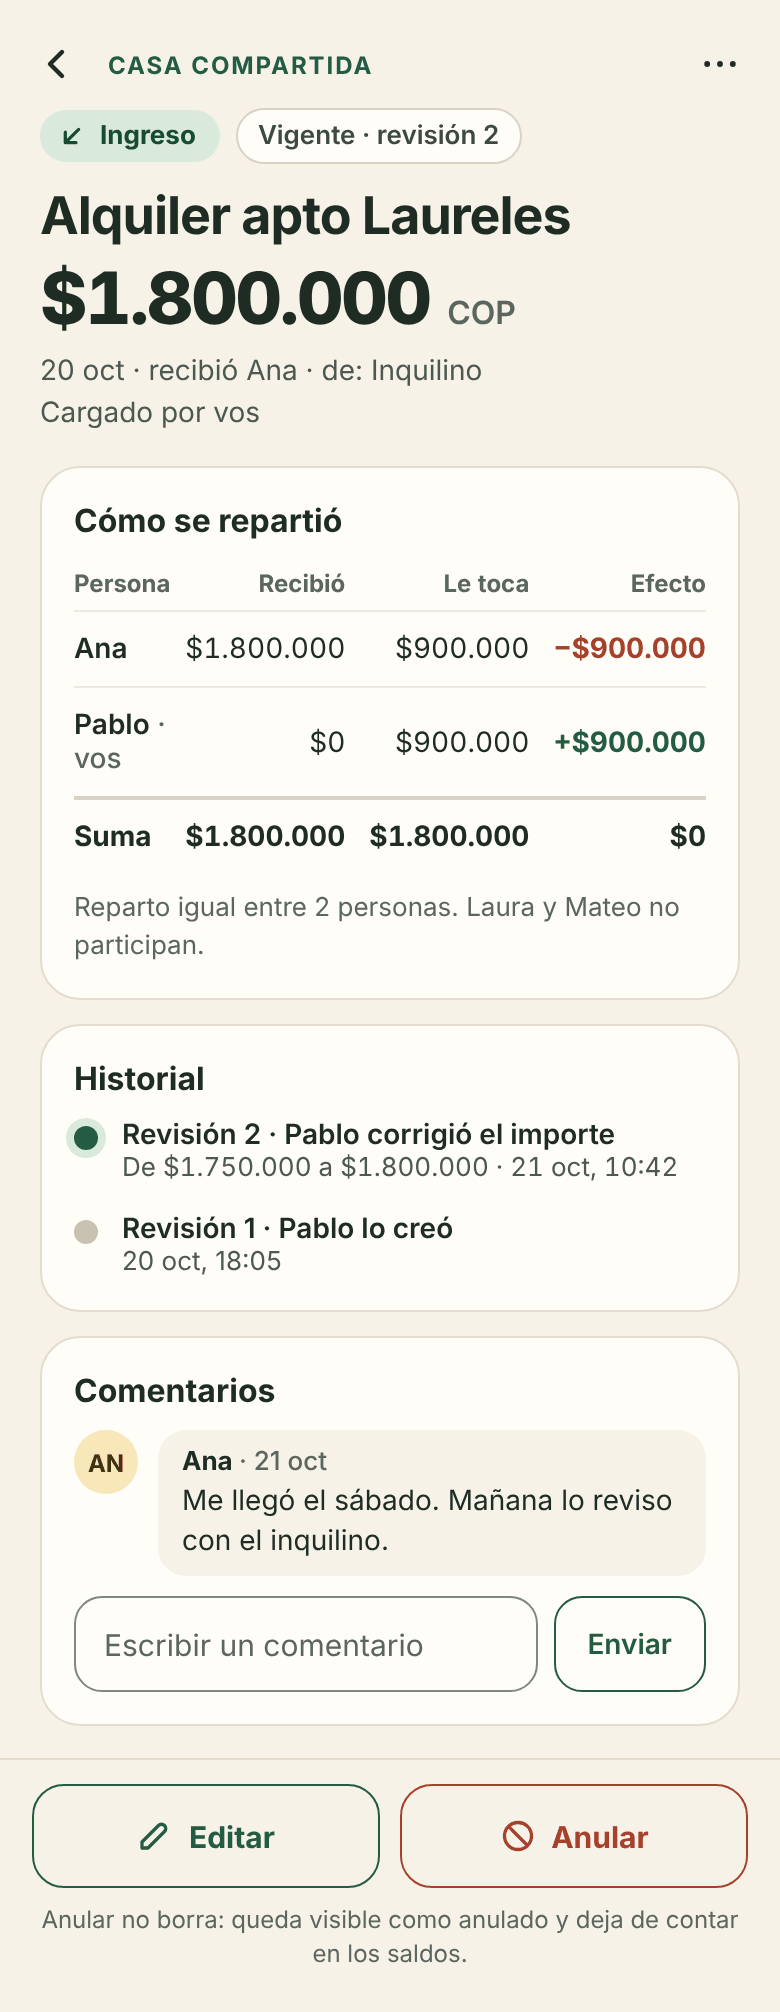
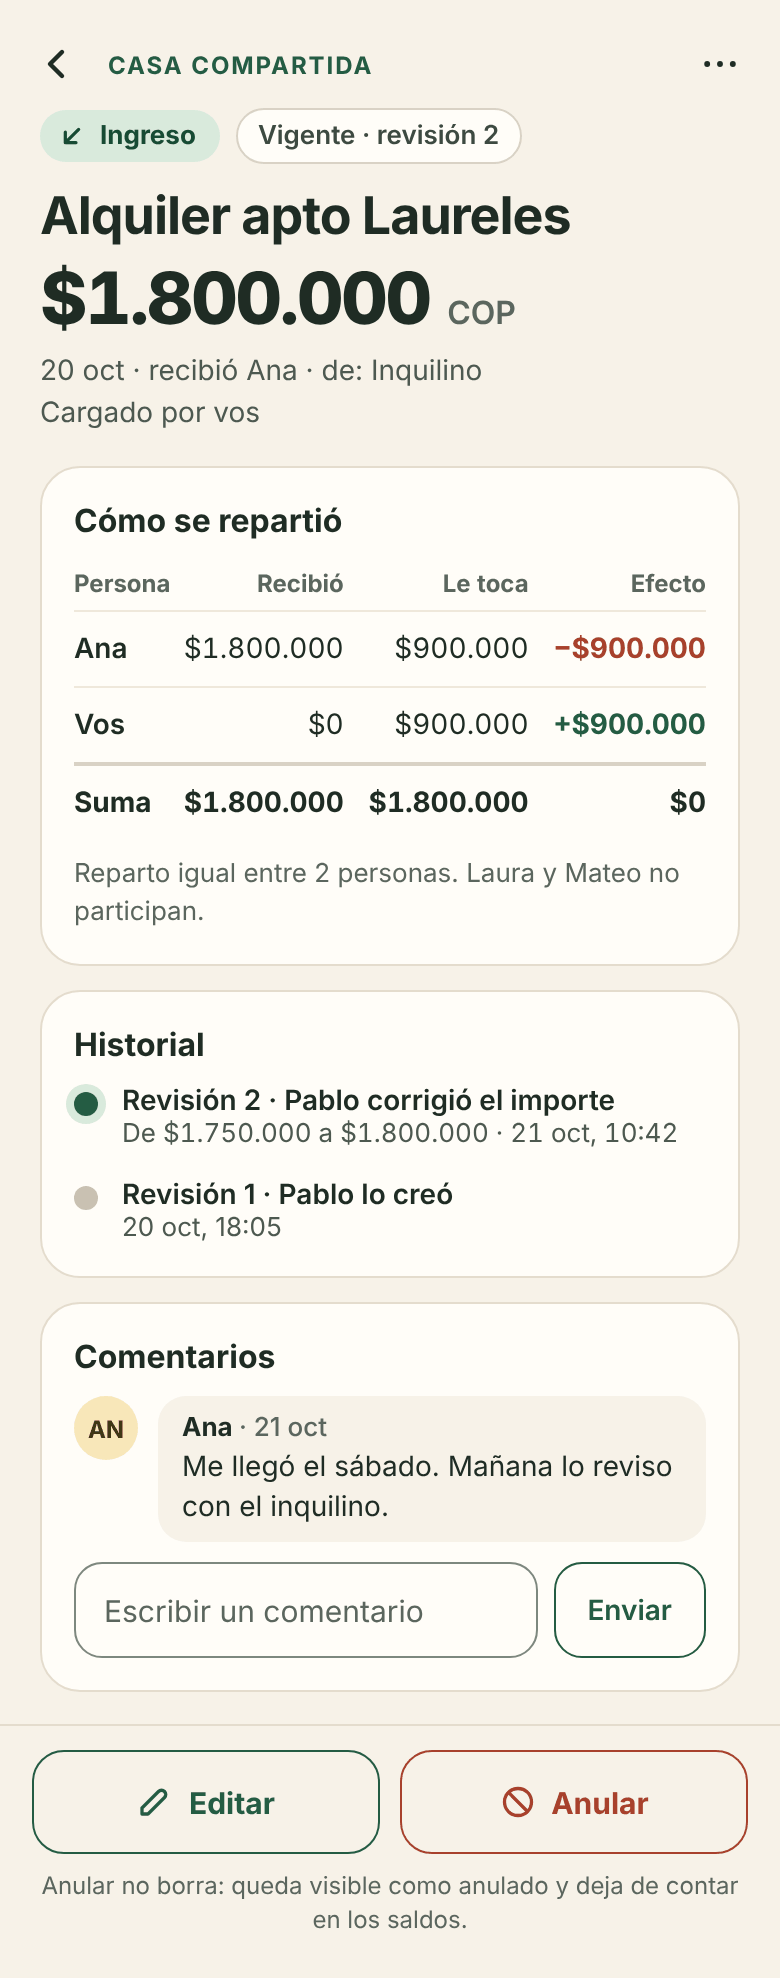
Acortar «Pablo · vos» a «Vos» en la tabla de reparto del detalle
Evita que la fila se parta en dos líneas a 390 px; capturas regeneradas.

Claude-Session: https://claude.ai/code/session_01UbZx6jd23ueNQqx8cAgRSF

diff --git a/docs/diseno/cuentas-claras/project/Detalle.dc.html b/docs/diseno/cuentas-claras/project/Detalle.dc.html
@@ -63,7 +63,7 @@ a{color:var(--accent-text)}a:hover{color:var(--accent-deep)}
             <td style="padding:10px 0 10px 6px;font-weight:700;color:var(--neg)">−$900.000</td>
           </tr>
           <tr style="border-top:1px solid var(--line-soft);text-align:right">
-            <th scope="row" style="padding:10px 0;text-align:left;font-weight:600">Pablo <span style="font-weight:500;color:var(--ink-3)">· vos</span></th>
+            <th scope="row" style="padding:10px 0;text-align:left;font-weight:600">Vos</th>
             <td style="padding:10px 6px">$0</td>
             <td style="padding:10px 6px">$900.000</td>
             <td style="padding:10px 0 10px 6px;font-weight:700;color:var(--accent-text)">+$900.000</td>
